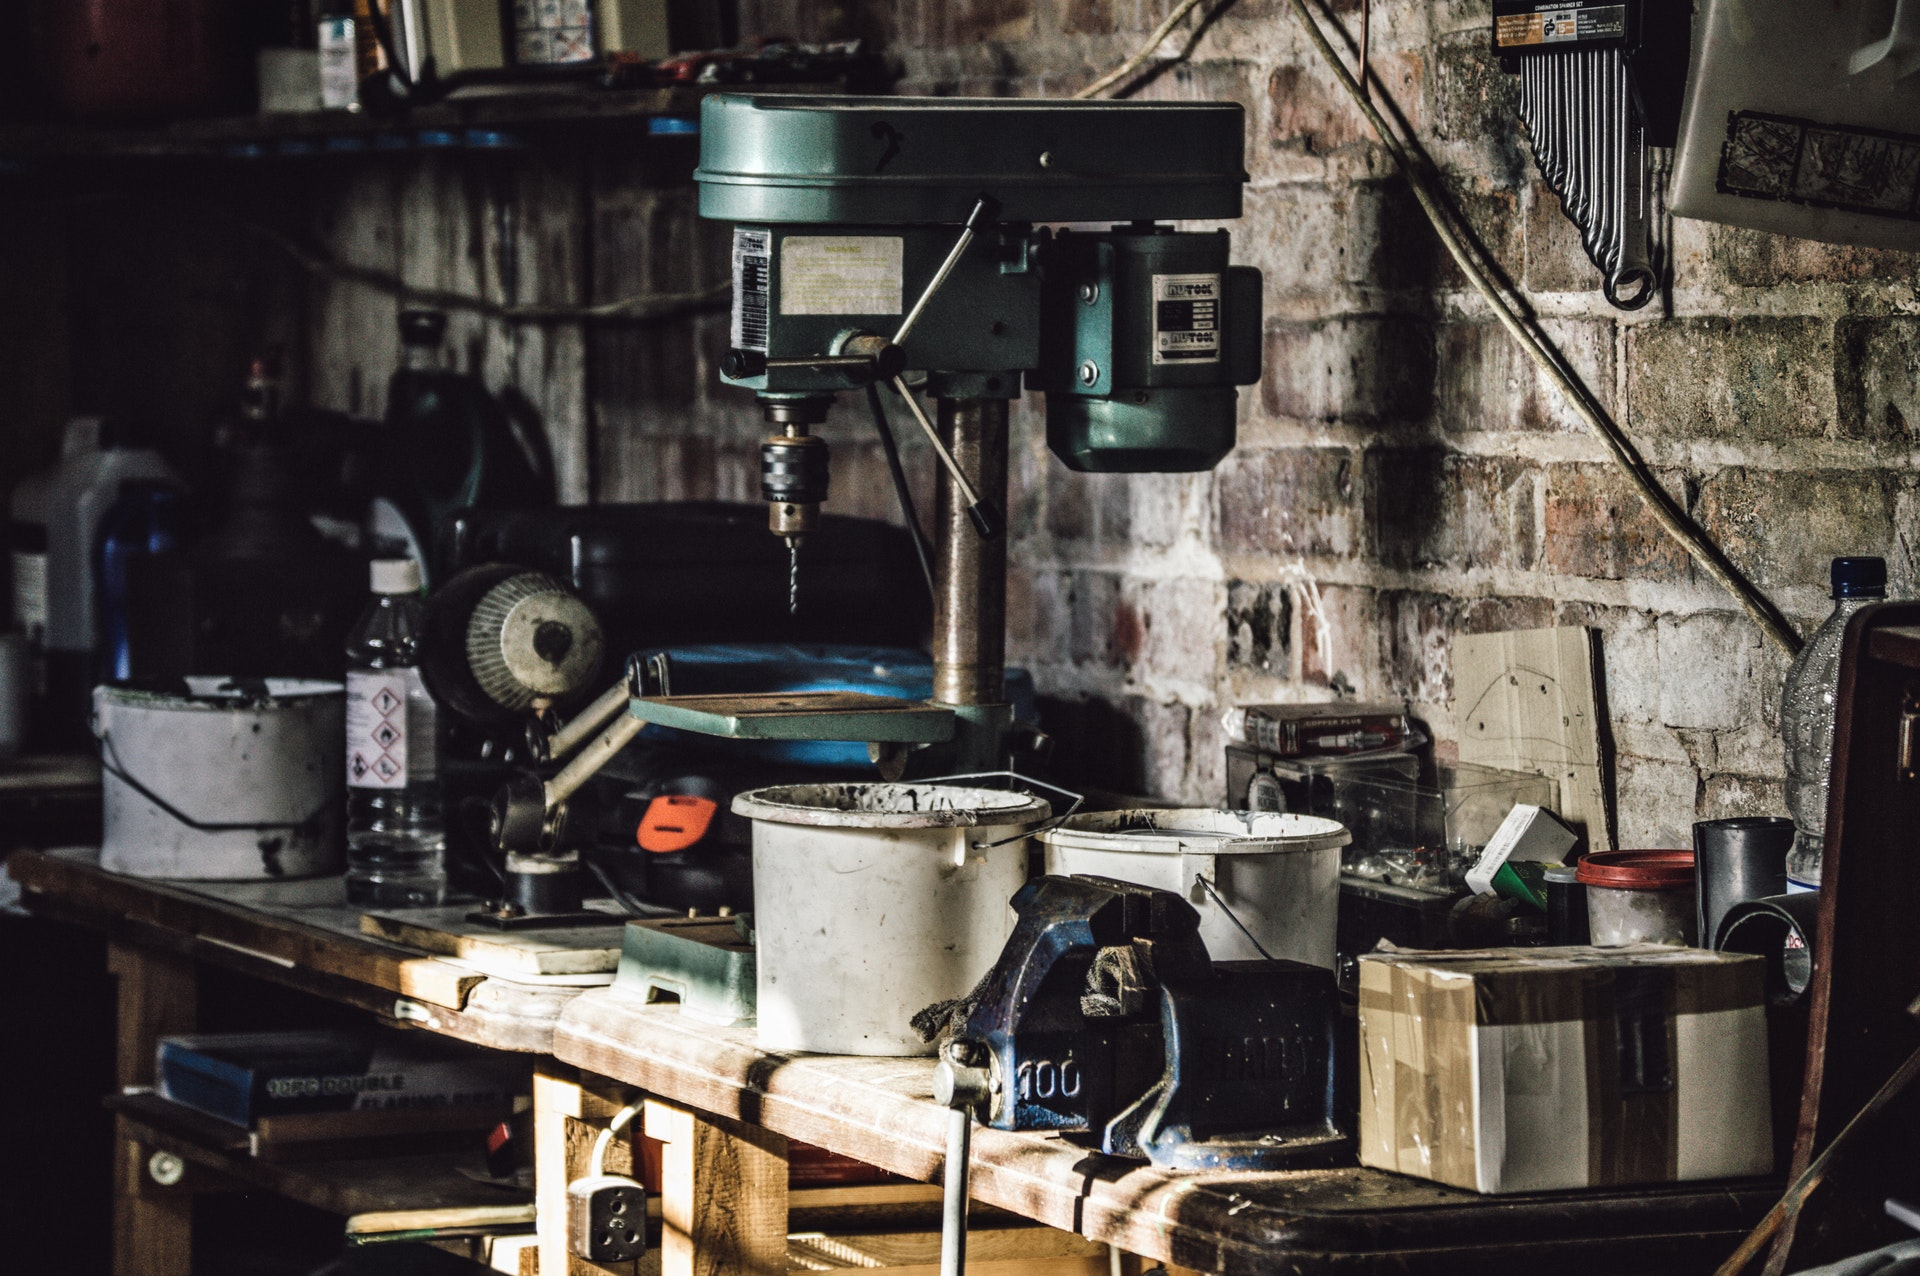
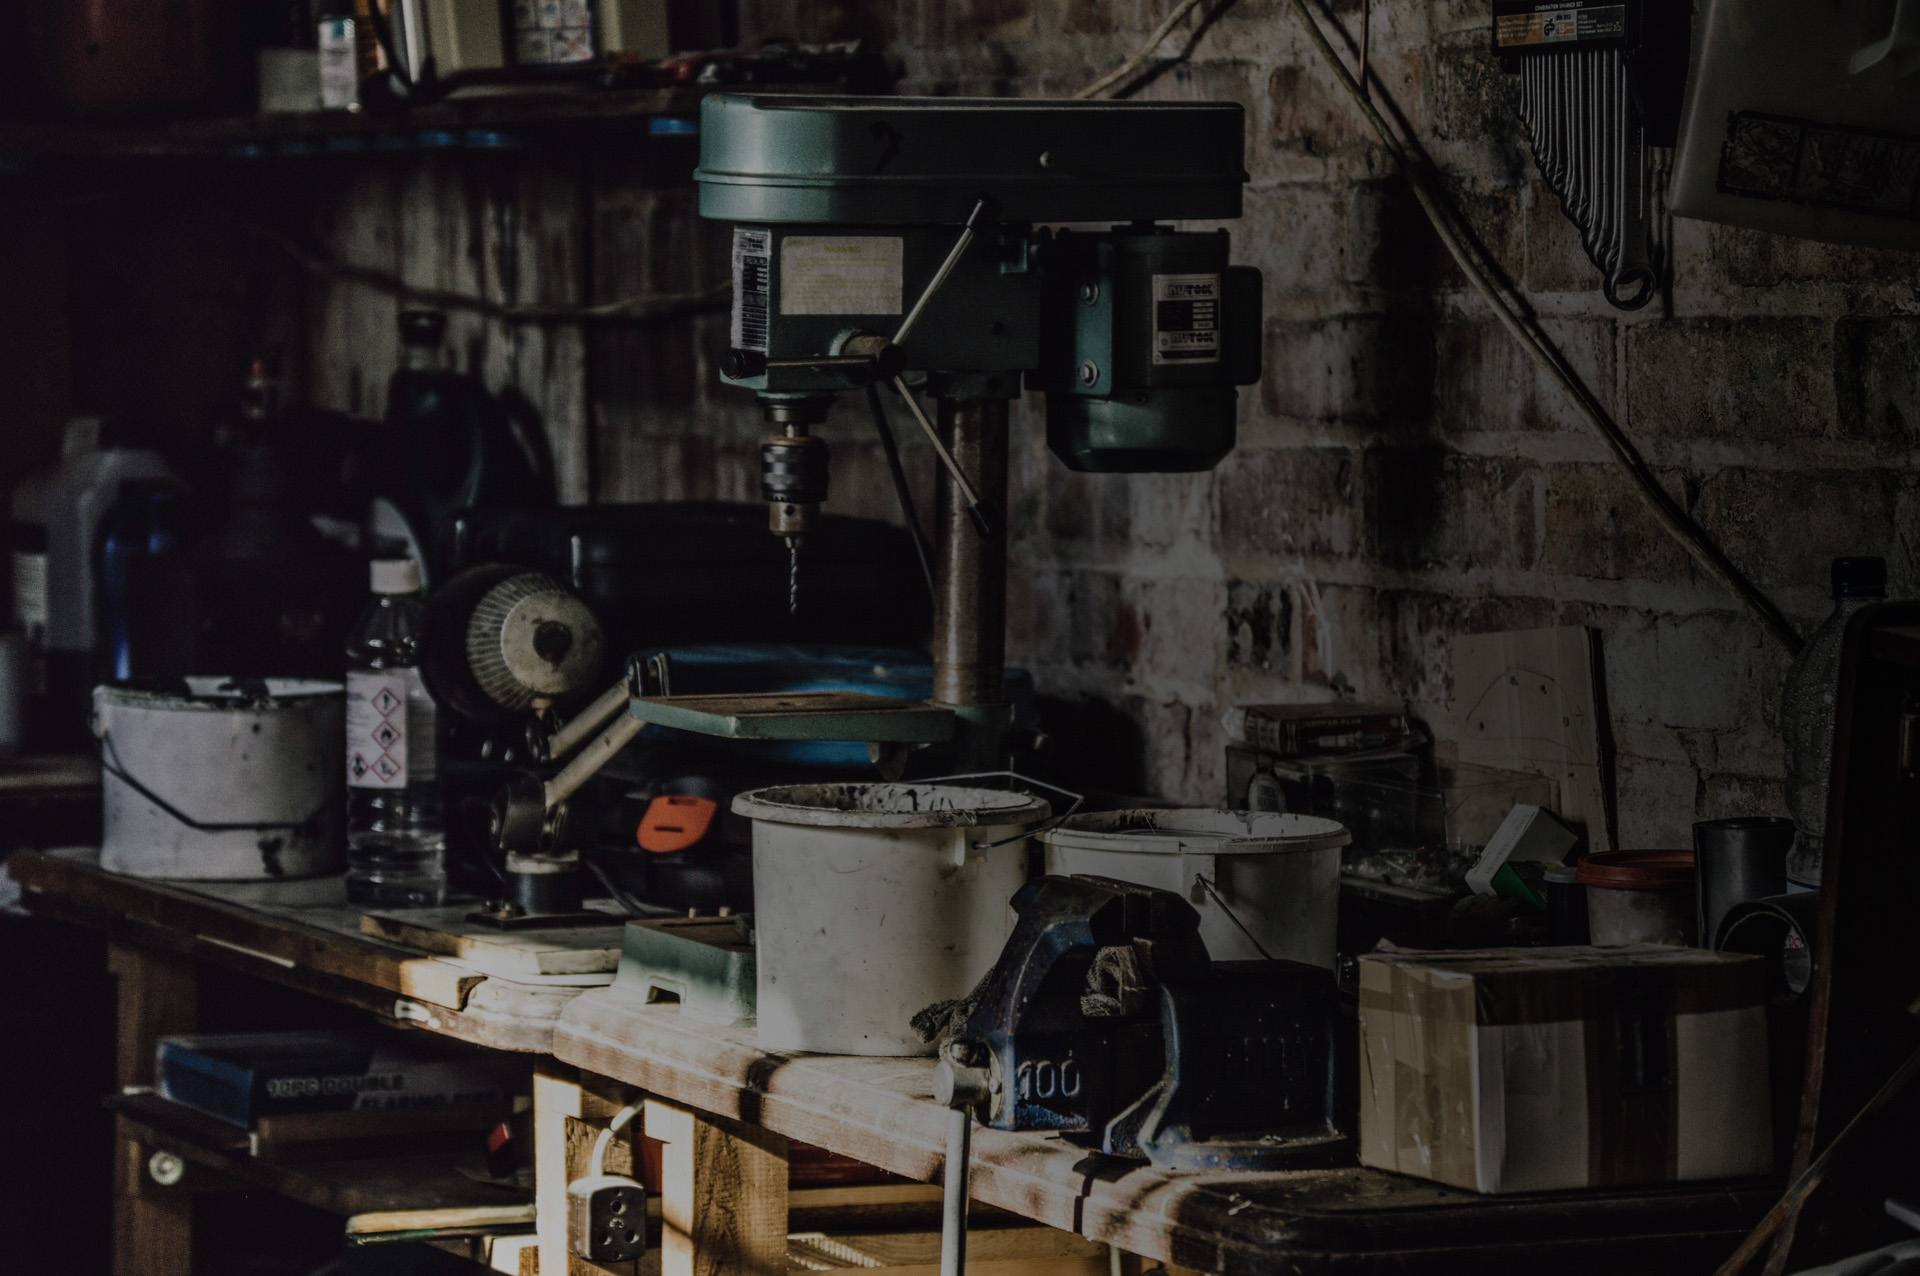
team page fixed

diff --git a/index.html b/index.html
@@ -412,133 +412,128 @@
     </script>
 
     <!-- team section -->
-    <section id="team" data-background-image="images/register/wallpaper.jpg" data-prevent-swipe>
+    <section id="team" data-background-image="images/events/bg.jpg" data-prevent-swipe>
      <div class="backstageborder">
       <span class="backstage">The Backstage Heroes
       </span>
      </div>
-      <br> <br><br><br><br>
       <div id="team-div" data-simplebar>
           <div class="team-card">
-            <img src="http://kenwheeler.github.io/slick/img/fonz1.png">
-            Aakash
-        <div class="team-card-deptt">Deptt
-         </div>
+            <img src="images/team/a1.jpg">
+            Anuj Raj Sharma 
+            <div class="team-card-deptt">Marketing
+            </div>
           </div>
           <div class="team-card">
-            <img src="http://kenwheeler.github.io/slick/img/fonz1.png">
-            Aakash
-          <div class="team-card-deptt">Deptt
-         </div>
+            <img src="images/team/a2.jpg">
+            Kshitiz Manocha
+            <div class="team-card-deptt">Hospitality
+            </div>
           </div>
           <div class="team-card">
-            <img src="http://kenwheeler.github.io/slick/img/fonz1.png">
-            Aakash
-          <div class="team-card-deptt">Deptt
-         </div>
+            <img src="images/team/a3.jpg">
+            Payal Malik
+            <div class="team-card-deptt">Hospitality
+            </div>
           </div>
           <div class="team-card">
-            <img src="http://kenwheeler.github.io/slick/img/fonz1.png">
-            Aakash
-          <div class="team-card-deptt">Deptt
-         </div>
-        </div>
-          <div class="team-card">
-            <img src="http://kenwheeler.github.io/slick/img/fonz1.png">
-            Aakash
-          <div class="team-card-deptt">Deptt
-         </div>
+            <img src="images/team/a4.jpg">
+            <span style="font-size: 20px;">Devinderpreet Bedi</span>
+            <div class="team-card-deptt">Logistics
+            </div>
           </div>
           <div class="team-card">
-            <img src="http://kenwheeler.github.io/slick/img/fonz1.png">
-            Aakash
-           <div class="team-card-deptt">Deptt
-         </div>
+            <img src="images/team/a5.jpg">
+            Karan Handa
+            <div class="team-card-deptt">Logistics
+            </div>
           </div>
           <div class="team-card">
-            <img src="http://kenwheeler.github.io/slick/img/fonz1.png">
-            Aakash
-          <div class="team-card-deptt">Deptt
-         </div>
+            <img src="images/team/a6.jpg">
+            Kartik Singla
+            <div class="team-card-deptt">Lead Web Designer
+            </div>
           </div>
           <div class="team-card">
-            <img src="http://kenwheeler.github.io/slick/img/fonz1.png">
-            Aakash
-          <div class="team-card-deptt">Deptt
-         </div>
+            <img src="images/team/a7.jpg">
+            Kushal Sharma
+            <div class="team-card-deptt">Logistics
+            </div>
           </div>
           <div class="team-card">
-            <img src="http://kenwheeler.github.io/slick/img/fonz1.png">
-            Aakash
-          <div class="team-card-deptt">Deptt
-         </div>
+            <img src="images/team/a8.jpg">
+            Nishant Chetiwal
+            <div class="team-card-deptt">Logistics
+            </div>
           </div>
           <div class="team-card">
-            <img src="http://kenwheeler.github.io/slick/img/fonz1.png">
-            Aakash
-            <div class="team-card-deptt">Deptt
-         </div>
+            <img src="images/team/a9.jpg">
+            Randeep
+            <div class="team-card-deptt">Logistics
+            </div>
           </div>
           <div class="team-card">
-            <img src="http://kenwheeler.github.io/slick/img/fonz1.png">
-            Aakash
-            <div class="team-card-deptt">Deptt
-         </div>
+            <img src="images/team/a10.jpg">
+            Sahil Kasana
+            <div class="team-card-deptt">Security
+            </div>
           </div>
           <div class="team-card">
-            <img src="http://kenwheeler.github.io/slick/img/fonz1.png">
-            Aakash
-          <div class="team-card-deptt">Deptt
-         </div>
+            <img src="images/team/a11.jpg">
+            Sanjog Garv
+            <div class="team-card-deptt">Marketing
+            </div>
           </div>
           <div class="team-card">
-            <img src="http://kenwheeler.github.io/slick/img/fonz1.png">
-            Aakash
-          <div class="team-card-deptt">Deptt
-         </div>
+            <img src="images/team/a12.jpg">
+            Sourabh
+            <div class="team-card-deptt">Marketing
+            </div>
           </div>
           <div class="team-card">
-            <img src="http://kenwheeler.github.io/slick/img/fonz1.png">
-            Aakash
-           <div class="team-card-deptt">Deptt
-         </div>
+            <img src="images/team/a13.jpg">
+            Sushant
+            <div class="team-card-deptt">Marketing
+            </div>
           </div>
           <div class="team-card">
-            <img src="http://kenwheeler.github.io/slick/img/fonz1.png">
-            Aakash
-           <div class="team-card-deptt">Deptt
-         </div>
+            <img src="images/team/a14.jpg">
+            Sushant Gawri
+            <div class="team-card-deptt">Logistics
+            </div>
+          </div><br>
+          <span style="font-size: 32px;"><br>The Website Team</span><br>
+          <div class="team-card">
+            <img src="images/team/t1.jpg">
+            Rishabh Mahajan
+            <div class="team-card-deptt">Senior Web Dev
+            </div>
           </div>
           <div class="team-card">
-            <img src="http://kenwheeler.github.io/slick/img/fonz1.png">
-            Aakash
-           <div class="team-card-deptt">Deptt
-         </div>
+            <img src="images/team/t2.jpg">
+            Aakash Verma
+            <div class="team-card-deptt">Lead Web Developer
+            </div>
           </div>
           <div class="team-card">
-            <img src="http://kenwheeler.github.io/slick/img/fonz1.png">
-            Aakash
-           <div class="team-card-deptt">Deptt
-         </div>
+            <img src="images/team/t3.jpg">
+            Naman Sachdeva
+            <div class="team-card-deptt">Web Co-ordinator
+            </div>
           </div>
           <div class="team-card">
-            <img src="http://kenwheeler.github.io/slick/img/fonz1.png">
-            Aakash
-            <div class="team-card-deptt">Deptt
-         </div>
+            <img src="images/team/t4.jpg">
+            Mohit Yadav
+            <div class="team-card-deptt">Senior Web Dev
+            </div>
           </div>
           <div class="team-card">
-            <img src="http://kenwheeler.github.io/slick/img/fonz1.png">
-            Aakash
-            <div class="team-card-deptt">Deptt
-         </div>
+            <img src="images/team/t5.jpg">
+            Yugant Kachroo
+            <div class="team-card-deptt">Web Developer
+            </div>
           </div>
-          <div class="team-card">
-            <img src="http://kenwheeler.github.io/slick/img/fonz1.png">
-            Aakash
-           <div class="team-card-deptt">Deptt
-          </div>
-          </div>
+          
       </div>
     </section>
 
@@ -950,6 +945,7 @@ Reveal.initialize({
   maxScale: 1,
   controlsBackArrows: 'visible',
   controlsLayout: 'edges',
+  overview: false,
 });
 var upactivate = 0;
 // Start modifications

diff --git a/css/style.css b/css/style.css
@@ -702,11 +702,14 @@ a:link, a:visited, a:hover, a:active {
 	height: 100% !important;
 }
 
-#team > div {
+#team-div {
 	width: 100%;
-	height: 80%;
+	height: 70%;
 	position: absolute;
-	padding: 4% 0%;
+}
+
+.backstageborder {
+ 	margin-top: 5% !important
 }
 
 #team img {
@@ -748,7 +751,7 @@ a:link, a:visited, a:hover, a:active {
 	overflow: visible;
 	font-size: 18px !important;
 	display: inline-block;
-	margin: 3% !important;
+	margin: 1% !important;
 }
 
 
@@ -1089,5 +1092,6 @@ a:link, a:visited, a:hover, a:active {
 @media screen and (max-width: 460px){
   #team-div{
     padding-top: 45px !important;
+    height: 65%
   }
 }
